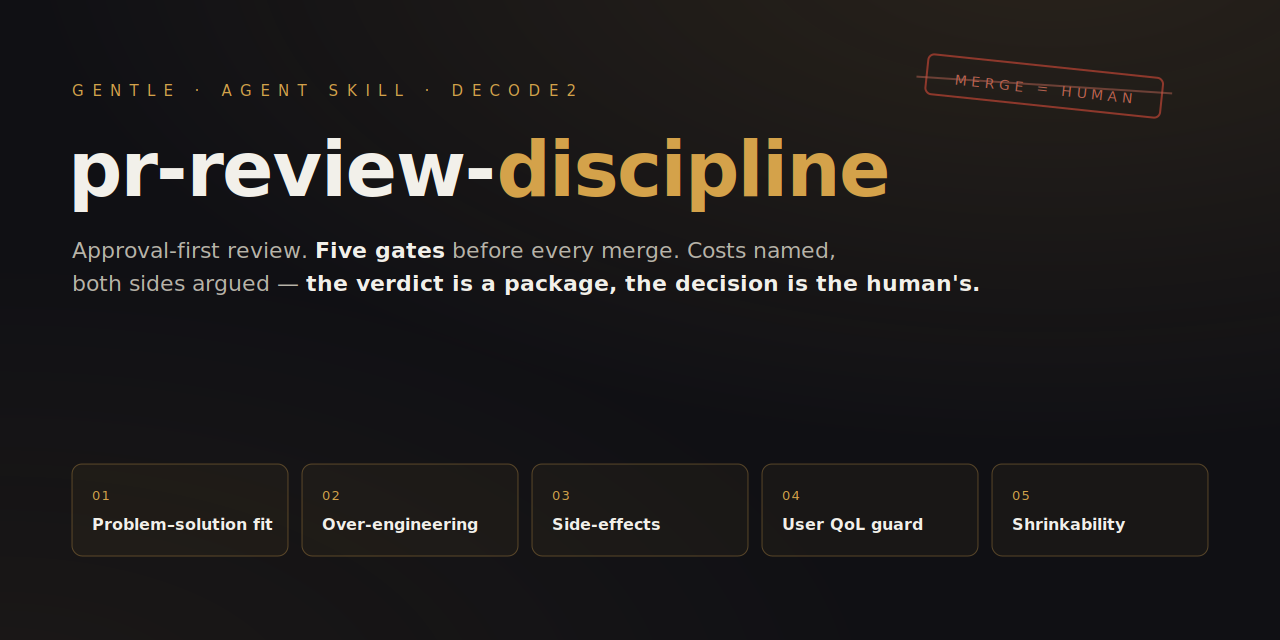
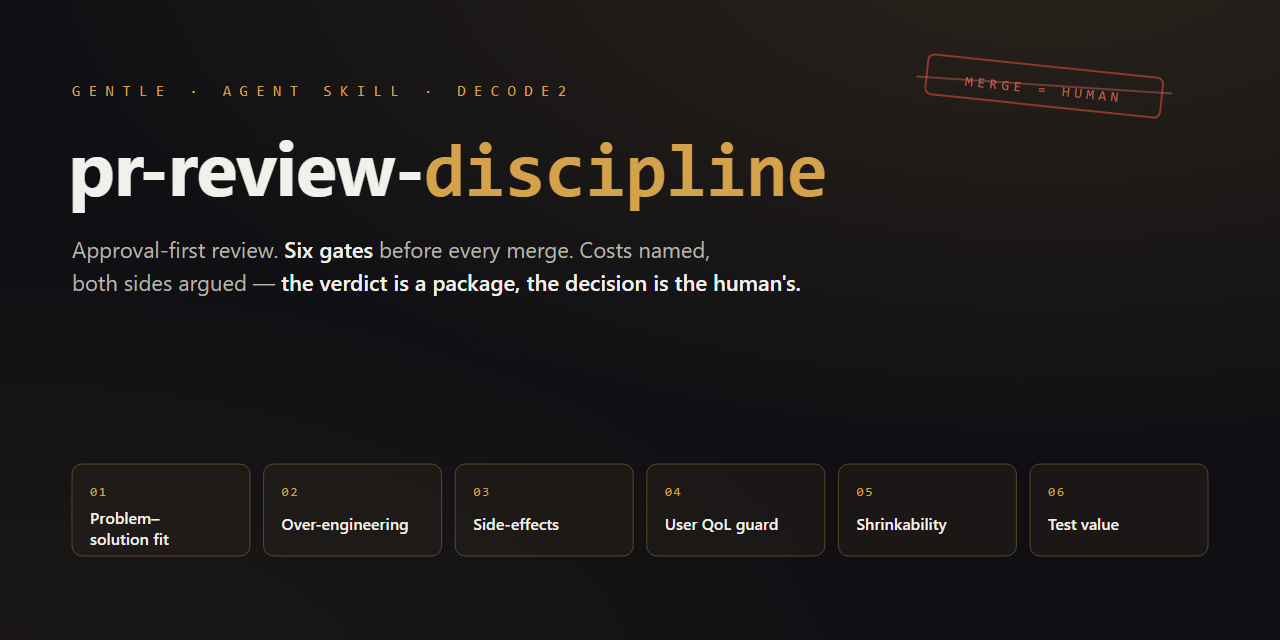
feat(skills): add test-value gate to the review evaluation (#1)
Add a sixth gate that checks the change carries the tests the repo's
criteria require and that each test proves a real case of the change,
flagging ritual tests written only to satisfy TDD or a checklist.

- New hard rule and two decision gates in SKILL.md (EN/ES)
- Rename five-fold-evaluation.md to six-fold-evaluation.md
- Shrinkability treats only tests that pass the value check as contract
- Banner and README updated to six gates; version 1.7

diff --git a/skills/pr-review-discipline/SKILL.md b/skills/pr-review-discipline/SKILL.md
@@ -1,10 +1,10 @@
 ---
 name: pr-review-discipline
-description: "Trigger: auditar PR, revisar diff, antes de push, PR o merge, aprobar issue, status:approved. Approval-first, cinco-vías, QoL, achicabilidad, costos. / Audit a PR or diff, before push or merge. Five-fold review, QoL, costed verdicts."
+description: "Trigger: auditar PR, revisar diff, antes de push, PR o merge, aprobar issue, status:approved. Approval-first, seis-vías, QoL, achicabilidad, valor de tests, costos. / Audit a PR or diff, before push or merge. Six-fold review, QoL, test value, costed verdicts."
 license: Apache-2.0
 metadata:
   author: "decode2"
-  version: "1.6"
+  version: "1.7"
 ---
 
 ## Activation Contract / Contrato de activación
@@ -20,17 +20,19 @@ Se activa al auditar, revisar o evaluar CUALQUIER PR o diff que pueda llegar a u
 - **Judge the solution, never the CI.** Green checks are necessary, never sufficient. / **Juzgá la solución, nunca el CI.** Los checks verdes son necesarios, nunca suficientes.
 - **No fix may create a worse product.** Degrading defaults, flow, latency, or error quality is not done. / **Ningún arreglo puede crear un producto peor.** Degradar defaults, flujo, latencia o calidad de errores no está permitido.
 - **Every fix lands at its smallest honest shape.** Unneeded diff weight is requested out before merge, hunks named. / **Todo arreglo llega a su forma honesta más pequeña.** El peso de diff innecesario se pide fuera antes del merge, con hunks nombrados.
+- **Tests must earn their place.** What enters the repo carries tests per the repo's own criteria, and every test proves a real case of this change. Tests written only because TDD or a checklist demanded them are not coverage. / **Los tests tienen que ganarse su lugar.** Lo que entra al repo lleva tests según el criterio del propio repo, y cada test prueba un caso real de este cambio. Los tests escritos solo porque TDD o un checklist los pedía no son cobertura.
 - **Every verdict is a balanced, costed package.** Reasons FOR and AGAINST, both mandatory, even for clear calls. A reject without a proposed better solution is incomplete. / **Todo veredicto es un paquete balanceado y costeado.** Razones a FAVOR y en CONTRA, ambas obligatorias, incluso en llamadas claras. Un rechazo sin solución mejor propuesta está incompleto.
 
 ## Evaluation Method / Método de evaluación
 
-Before merge, run the five-fold evaluation and the cost balance in full — methodology in `references/five-fold-evaluation.md`. / Antes del merge, corré la evaluación de cinco vías y el balance de costos completos — metodología en `references/five-fold-evaluation.md`.
+Before merge, run the six-fold evaluation and the cost balance in full — methodology in `references/six-fold-evaluation.md`. / Antes del merge, corré la evaluación de seis vías y el balance de costos completos — metodología en `references/six-fold-evaluation.md`.
 
 1. **Problem–solution fit.** Reproduce the problem, apply the PR, verify it is gone. / **Ajuste problema–solución.** Reproducí el problema, aplicá el PR, verificá que desapareció.
 2. **Over-engineering.** Architecture must not exceed the problem. / **Sobre-ingeniería.** La arquitectura no debe exceder el problema.
 3. **Side-effects.** Name each behavior added, then evaluate it; propose removal hunks-named. / **Efectos secundarios.** Nombrá cada comportamiento agregado y evalualo; proponé remoción con hunks nombrados.
 4. **User QoL guard.** Before/after as a USER: defaults, prompts, waits, errors. / **Guardia de QoL.** Antes/después como USUARIO: defaults, prompts, esperas, errores.
 5. **Shrinkability.** Smallest honest shape: duplicated logic, dead parameters, speculative generality. / **Achicabilidad.** La forma honesta más pequeña: lógica duplicada, parámetros muertos, generalidad especulativa.
+6. **Test value.** Tests exist per the repo's criteria, and each one proves real behavior of this change, the right way; ritual tests are named and fixed. / **Valor de los tests.** Hay tests según el criterio del repo, y cada uno prueba comportamiento real de este cambio, de la forma adecuada; los tests de ritual se nombran y se corrigen.
 
 Then the **cost balance**: evidenced costs on system, user, and product axes; verdict package with reasons FOR and AGAINST — both mandatory — for the human. / Luego el **balance de costos**: costos evidenciados en ejes sistema, usuario y producto; paquete de veredicto con razones a FAVOR y en CONTRA — ambas obligatorias — para el humano.
 
@@ -43,19 +45,21 @@ Then the **cost balance**: evidenced costs on system, user, and product axes; ve
 | Open community PR covers the same files / PR comunitario abierto cubre los mismos archivos | Review and coordinate there first / Revisar y coordinar allí primero |
 | PR cannot demonstrate its fix / El PR no puede demostrar su arreglo | Reject as ineffective, with the better way / Rechazar como inefectivo, con la vía mejor |
 | Machinery beyond problem, QoL regression, shrinkable fat / Maquinaria de más, regresión de QoL, grasa achicable | Request change hunks-named; reject on insistence / Pedir el cambio con hunks; rechazar si insiste |
+| Change lacks the tests the repo's criteria require / Al cambio le faltan los tests que exige el criterio del repo | Request them, naming the behaviors to cover / Pedirlos, nombrando los comportamientos a cubrir |
+| Tests pass but prove nothing real (ritual, tautological, mock-only, wrong level) / Los tests pasan pero no prueban nada real (ritual, tautológicos, solo mocks, nivel equivocado) | Request rewrite or removal, tests named, with the case each should prove / Pedir reescritura o remoción, con tests nombrados y el caso que cada uno debería probar |
 | Works, but a simpler design exists / Funciona, pero existe un diseño más simple | Request it; supersede only on author's decline / Pedirlo; imponer solo si el autor declina |
 
 ## Execution Steps / Pasos de ejecución
 
 1. **Before work / Antes de trabajar**: verify `status:approved`; if absent, write the approval case, obtain explicit approval, record who and when. / verificá `status:approved`; si falta, escribí el caso de aprobación, obtené aprobación explícita, registrá quién y cuándo.
 2. **Before PR / Antes del PR**: search open community PRs on the issue and its files; review those first. / buscá PRs comunitarios abiertos sobre el issue y sus archivos; revisá esos primero.
-3. **Before merge / Antes del merge**: run the five-fold evaluation plus cost balance in writing; hand the pros/cons package to the human; merge only on explicit approval. / corré la evaluación de cinco vías más el balance de costos por escrito; entregá el paquete de pros/contras al humano; merge solo con aprobación explícita.
+3. **Before merge / Antes del merge**: run the six-fold evaluation plus cost balance in writing; hand the pros/cons package to the human; merge only on explicit approval. / corré la evaluación de seis vías más el balance de costos por escrito; entregá el paquete de pros/contras al humano; merge solo con aprobación explícita.
 4. **After merge / Después del merge**: confirm the issue closed, the class tracked, the user-facing behavior improved. / confirmá el issue cerrado, la clase rastreada, el comportamiento de usuario mejorado.
 
 ## Output Contract / Contrato de salida
 
-Return: approval state and approver; community-PR search result; five-fold evaluation; cost balance; pros/cons lists; on reject, the proposed better way. The merge decision is the human's. / Devolver: estado de aprobación y aprobador; resultado de búsqueda de PRs comunitarios; evaluación de cinco vías; balance de costos; listas de pros/contras; en rechazo, la vía mejor propuesta. La decisión de merge es del humano.
+Return: approval state and approver; community-PR search result; six-fold evaluation; cost balance; pros/cons lists; on reject, the proposed better way. The merge decision is the human's. / Devolver: estado de aprobación y aprobador; resultado de búsqueda de PRs comunitarios; evaluación de seis vías; balance de costos; listas de pros/contras; en rechazo, la vía mejor propuesta. La decisión de merge es del humano.
 
 ## References / Referencias
 
-- `references/five-fold-evaluation.md` — full methodology / metodología completa.
+- `references/six-fold-evaluation.md` — full methodology / metodología completa.

diff --git a/skills/pr-review-discipline/references/six-fold-evaluation.md b/skills/pr-review-discipline/references/six-fold-evaluation.md
@@ -1,15 +1,16 @@
-# Five-fold Evaluation and Verdict Package / Evaluación de cinco vías y paquete de veredicto
+# Six-fold Evaluation and Verdict Package / Evaluación de seis vías y paquete de veredicto
 
 Full methodology for the `pr-review-discipline` skill. Load when running the pre-merge evaluation.
 Metodología completa del skill `pr-review-discipline`. Cargala al correr la evaluación previa al merge.
 
-## The five-fold evaluation / La evaluación de cinco vías (mandatory / obligatoria before merge)
+## The six-fold evaluation / La evaluación de seis vías (mandatory / obligatoria before merge)
 
 1. **Problem–solution fit / Ajuste problema–solución.** Reproduce the claimed problem, apply the PR, verify it is gone — on a fresh PR-head build. No demonstrated fix = ineffective. / Reproducí el problema reclamado, aplicá el PR, verificá que desapareció — sobre un build fresco de la cabeza del PR. Arreglo no demostrado = inefectivo.
 2. **Over-engineering / Sobre-ingeniería.** Does the SOLUTION ARCHITECTURE exceed the problem: states, flags, abstractions, a second mechanism beside an existing one, machinery whose only consumer is its own test path? Request reduction or reject. / ¿La ARQUITECTURA de la solución excede el problema: estados, flags, abstracciones, un segundo mecanismo junto a uno existente, maquinaria cuyo único consumidor es su propio camino de tests? Pedí reducción o rechazá.
 3. **Side-effects / Efectos secundarios.** Name every behavior the diff adds beyond the stated fix: new failure modes, dead ends without executable exits, silent-loss paths, masking errors, scope creep. Then evaluate each: negative, neutral, or beneficial? Does it conflict with another mechanism or contract in the repo (test suites, budgets, ratchets)? If avoidable, propose the concrete change that removes it (hunks named); if it stays, state its cost in the verdict package. / Nombrá cada comportamiento que el diff agrega más allá del arreglo: nuevos modos de falla, callejones sin salida ejecutable, caminos de pérdida silenciosa, errores enmascarados, scope creep. Después evaluala cada uno: ¿negativo, neutro o con beneficio propio? ¿Conflicta con otro mecanismo o contrato del repo (suites de tests, budgets, ratchets)? Si es evitable, proponé el cambio concreto que lo remueve (hunks nombrados); si queda, declará su costo en el paquete de veredicto.
 4. **User QoL guard / Guardia de QoL.** Before/after as a USER: defaults, prompts, waits, self-service, error actionability. Hidden changes smuggled under another headline are argued or reverted. / Antes/después como USUARIO: defaults, prompts, esperas, autoservicio, accionabilidad de errores. Los cambios ocultos colados bajo otro titular se argumentan o se revierten.
-5. **Shrinkability / Achicabilidad.** Is the diff the smallest shape that fulfills the fix? Hunt duplicated logic, verbose constructs where a repo/stdlib util exists, dead parameters, speculative generality, deletable hunks, footprint wider than the root cause. Tests, docs, registries, fail-open guards are contract, not fat. / ¿Es el diff la forma más pequeña que cumple el arreglo? Cazá lógica duplicada, constructos verbosos donde existe un util del repo/stdlib, parámetros muertos, generalidad especulativa, hunks eliminables, huella más ancha que la causa raíz. Tests, docs, registros y guardas fail-open son contrato, no grasa.
+5. **Shrinkability / Achicabilidad.** Is the diff the smallest shape that fulfills the fix? Hunt duplicated logic, verbose constructs where a repo/stdlib util exists, dead parameters, speculative generality, deletable hunks, footprint wider than the root cause. Tests that pass the test-value check (6), docs, registries, fail-open guards are contract, not fat. / ¿Es el diff la forma más pequeña que cumple el arreglo? Cazá lógica duplicada, constructos verbosos donde existe un util del repo/stdlib, parámetros muertos, generalidad especulativa, hunks eliminables, huella más ancha que la causa raíz. Los tests que pasan el chequeo de valor (6), docs, registros y guardas fail-open son contrato, no grasa.
+6. **Test value / Valor de los tests.** First, presence: read the repo's testing criteria (CONTRIBUTING, existing suites, CI config, conventions for this layer) and check the change carries the tests they require; missing tests are requested with the behaviors to cover named. Then, value — for each test the diff adds or changes, ask: (a) Does it exercise behavior this change introduces or fixes, or does it only restate the implementation? (b) Would it FAIL if the fix were reverted or broken? A test that stays green without the fix proves nothing. (c) Does it model a real case — real inputs, the boundaries and error paths the rule names — rather than a trivial happy path? (d) Is it at the right level and through the public interface, asserting observable effects (output, state, errors), not private calls or mock interactions alone? (e) Is it deterministic and independent of order, time, and network? Ritual tests — written because TDD or a checklist demanded them: tautologies, mocks testing mocks, snapshots nobody reads, assertions on constants, coverage padding — are named and requested rewritten toward the real case, or removed. A useless test is not contract; it is cost: it slows the suite and gives false confidence. / Primero, presencia: leé el criterio de testing del repo (CONTRIBUTING, suites existentes, config de CI, convenciones de esta capa) y verificá que el cambio traiga los tests que ese criterio exige; los tests faltantes se piden nombrando los comportamientos a cubrir. Después, valor — por cada test que el diff agrega o cambia, preguntá: (a) ¿Ejercita comportamiento que este cambio introduce o arregla, o solo repite la implementación? (b) ¿FALLARÍA si se revierte o rompe el arreglo? Un test que sigue verde sin el arreglo no prueba nada. (c) ¿Modela un caso real — entradas reales, los bordes y caminos de error que la regla nombra — y no un happy path trivial? (d) ¿Está en el nivel adecuado y pasa por la interfaz pública, afirmando efectos observables (salida, estado, errores), no llamadas privadas ni solo interacciones con mocks? (e) ¿Es determinista e independiente del orden, el tiempo y la red? Los tests de ritual — escritos porque TDD o un checklist los pedía: tautologías, mocks que prueban mocks, snapshots que nadie lee, aserciones sobre constantes, relleno de cobertura — se nombran y se pide reescribirlos hacia el caso real, o removerlos. Un test inútil no es contrato; es costo: frena la suite y da falsa confianza.
 
 ## The cost balance and the verdict package / El balance de costos y el paquete de veredicto (mandatory in every review / obligatorio en toda revisión)
 

diff --git a/README.md b/README.md
@@ -4,7 +4,7 @@
 
 An AI agent skill for disciplined pull-request review and merge decisions.
 
-Approval-first workflow: issues get an explicit human approval before implementation, community PRs are reviewed before opening your own, and every merge decision runs a five-fold evaluation (problem–solution fit, over-engineering, side-effects, user QoL guard, shrinkability) plus an evidenced cost balance — handed to the human as a pros/cons package. The merge decision is always the human's.
+Approval-first workflow: issues get an explicit human approval before implementation, community PRs are reviewed before opening your own, and every merge decision runs a six-fold evaluation (problem–solution fit, over-engineering, side-effects, user QoL guard, shrinkability, test value) plus an evidenced cost balance — handed to the human as a pros/cons package. The merge decision is always the human's.
 
 ## Install
 
@@ -18,7 +18,7 @@ npx skills add decode2/pr-review-discipline
 skills/pr-review-discipline/
 ├── SKILL.md                              # runtime instruction contract (EN/ES)
 └── references/
-    └── five-fold-evaluation.md           # full pre-merge methodology (EN/ES)
+    └── six-fold-evaluation.md            # full pre-merge methodology (EN/ES)
 ```
 
 ## Qué aplica / What it enforces
@@ -28,6 +28,7 @@ skills/pr-review-discipline/
 - Judge the solution, never the CI / Juzgá la solución, nunca el CI — green checks are necessary, never sufficient.
 - No fix may create a worse product / Ningún arreglo crea un producto peor — QoL regressions are argued or reverted.
 - Every fix lands at its smallest honest shape / Todo arreglo llega a su forma más pequeña — shrink requests are hunks-named.
+- Tests must earn their place / Los tests tienen que ganarse su lugar — tests per the repo's criteria, each proving a real case of the change; ritual TDD tests are named and fixed.
 - Every verdict is a balanced, costed package / Todo veredicto es un paquete costeado — reasons FOR and AGAINST, costs on system/user/product axes, and a proposed better way on reject.
 
 ## Compatibilidad / Compatibility
